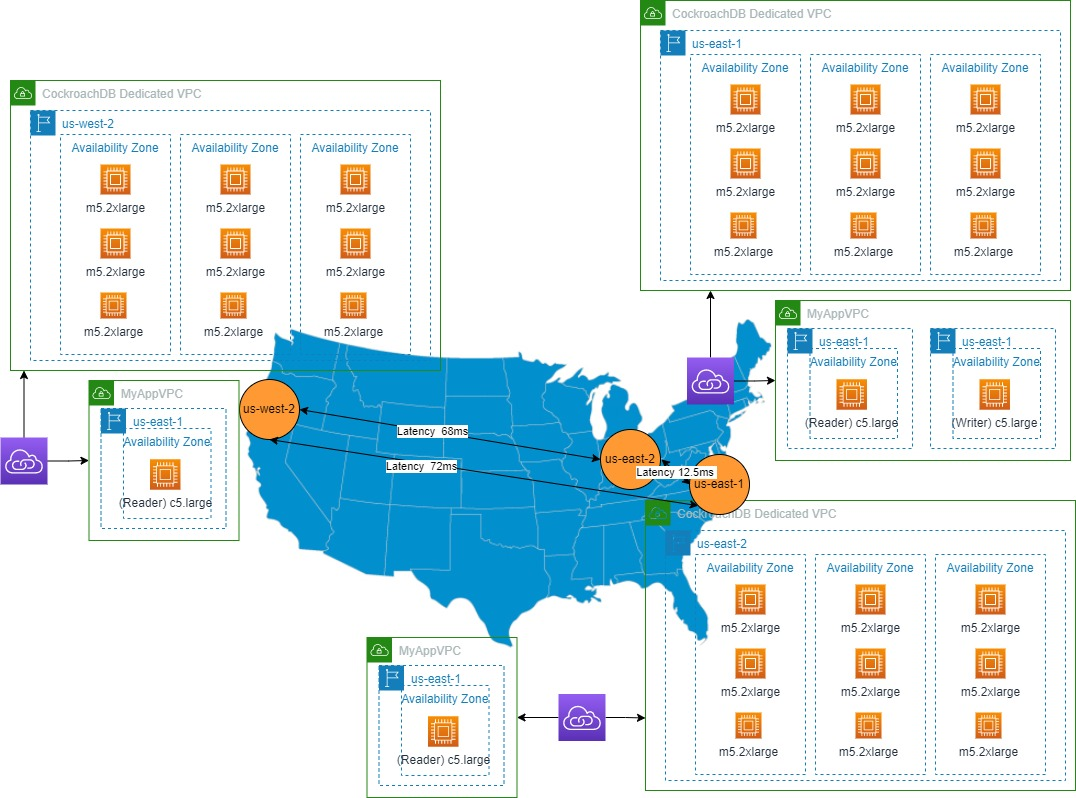
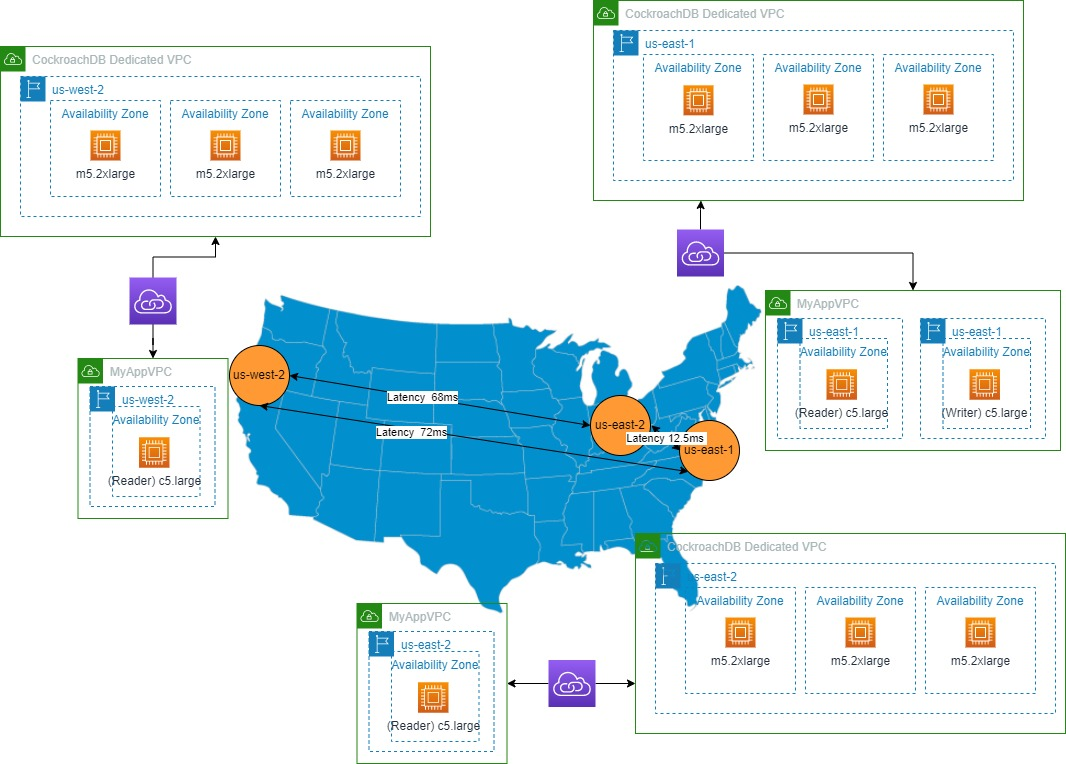
updated documentation.  corrected topology diagram.

diff --git a/results_readout.md b/results_readout.md
@@ -61,6 +61,8 @@ It looks like the maximum number of records that can be updated by the write is 
 
 Between 50ms sleep time and 40ms sleep time for writes the impact to the readers is very dramatic.  The read latencies basically double when when the sleep time decreases between 50ms and 40ms.  
 
+Remember that the average latency of writes can reach 500ms in this test (see the log file below).  At a 40ms sleep time, the writer is completing a 500ms write and sleeps for 40ms.  In 40ms, the reader can read 5 or 6 times (read latency is about 7ms).  
+
 The raw results in log files are availble
 - [reader output us-east-1](logfiles/Update_Exercise/reader_output_use1.log)
 - [reader output us-east-2](logfiles/Update_Exercise/reader_output_use2.log)
